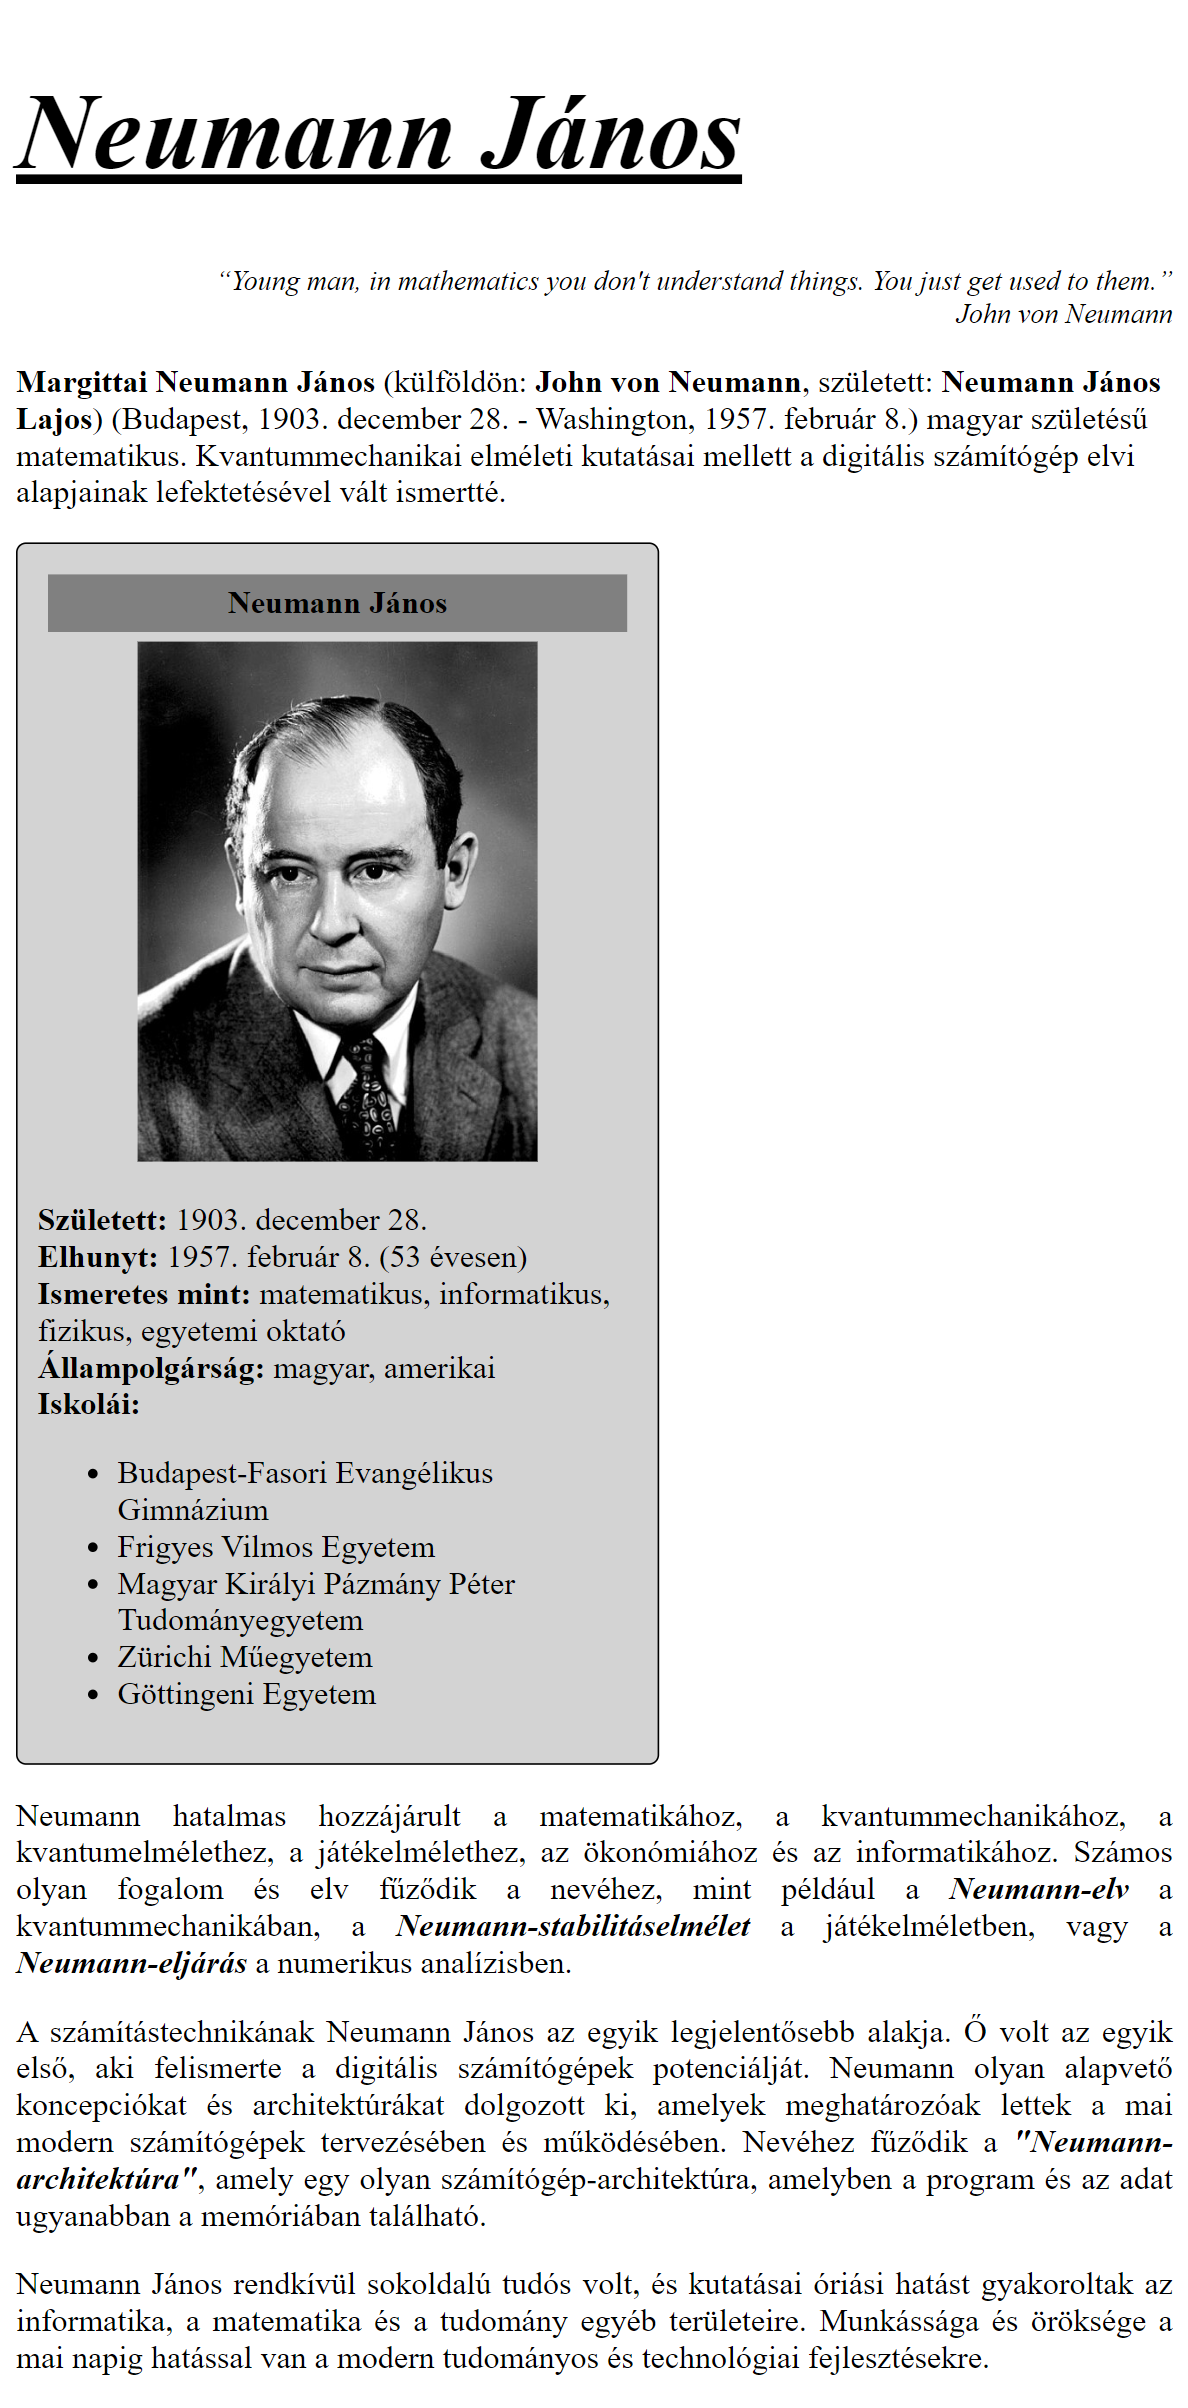
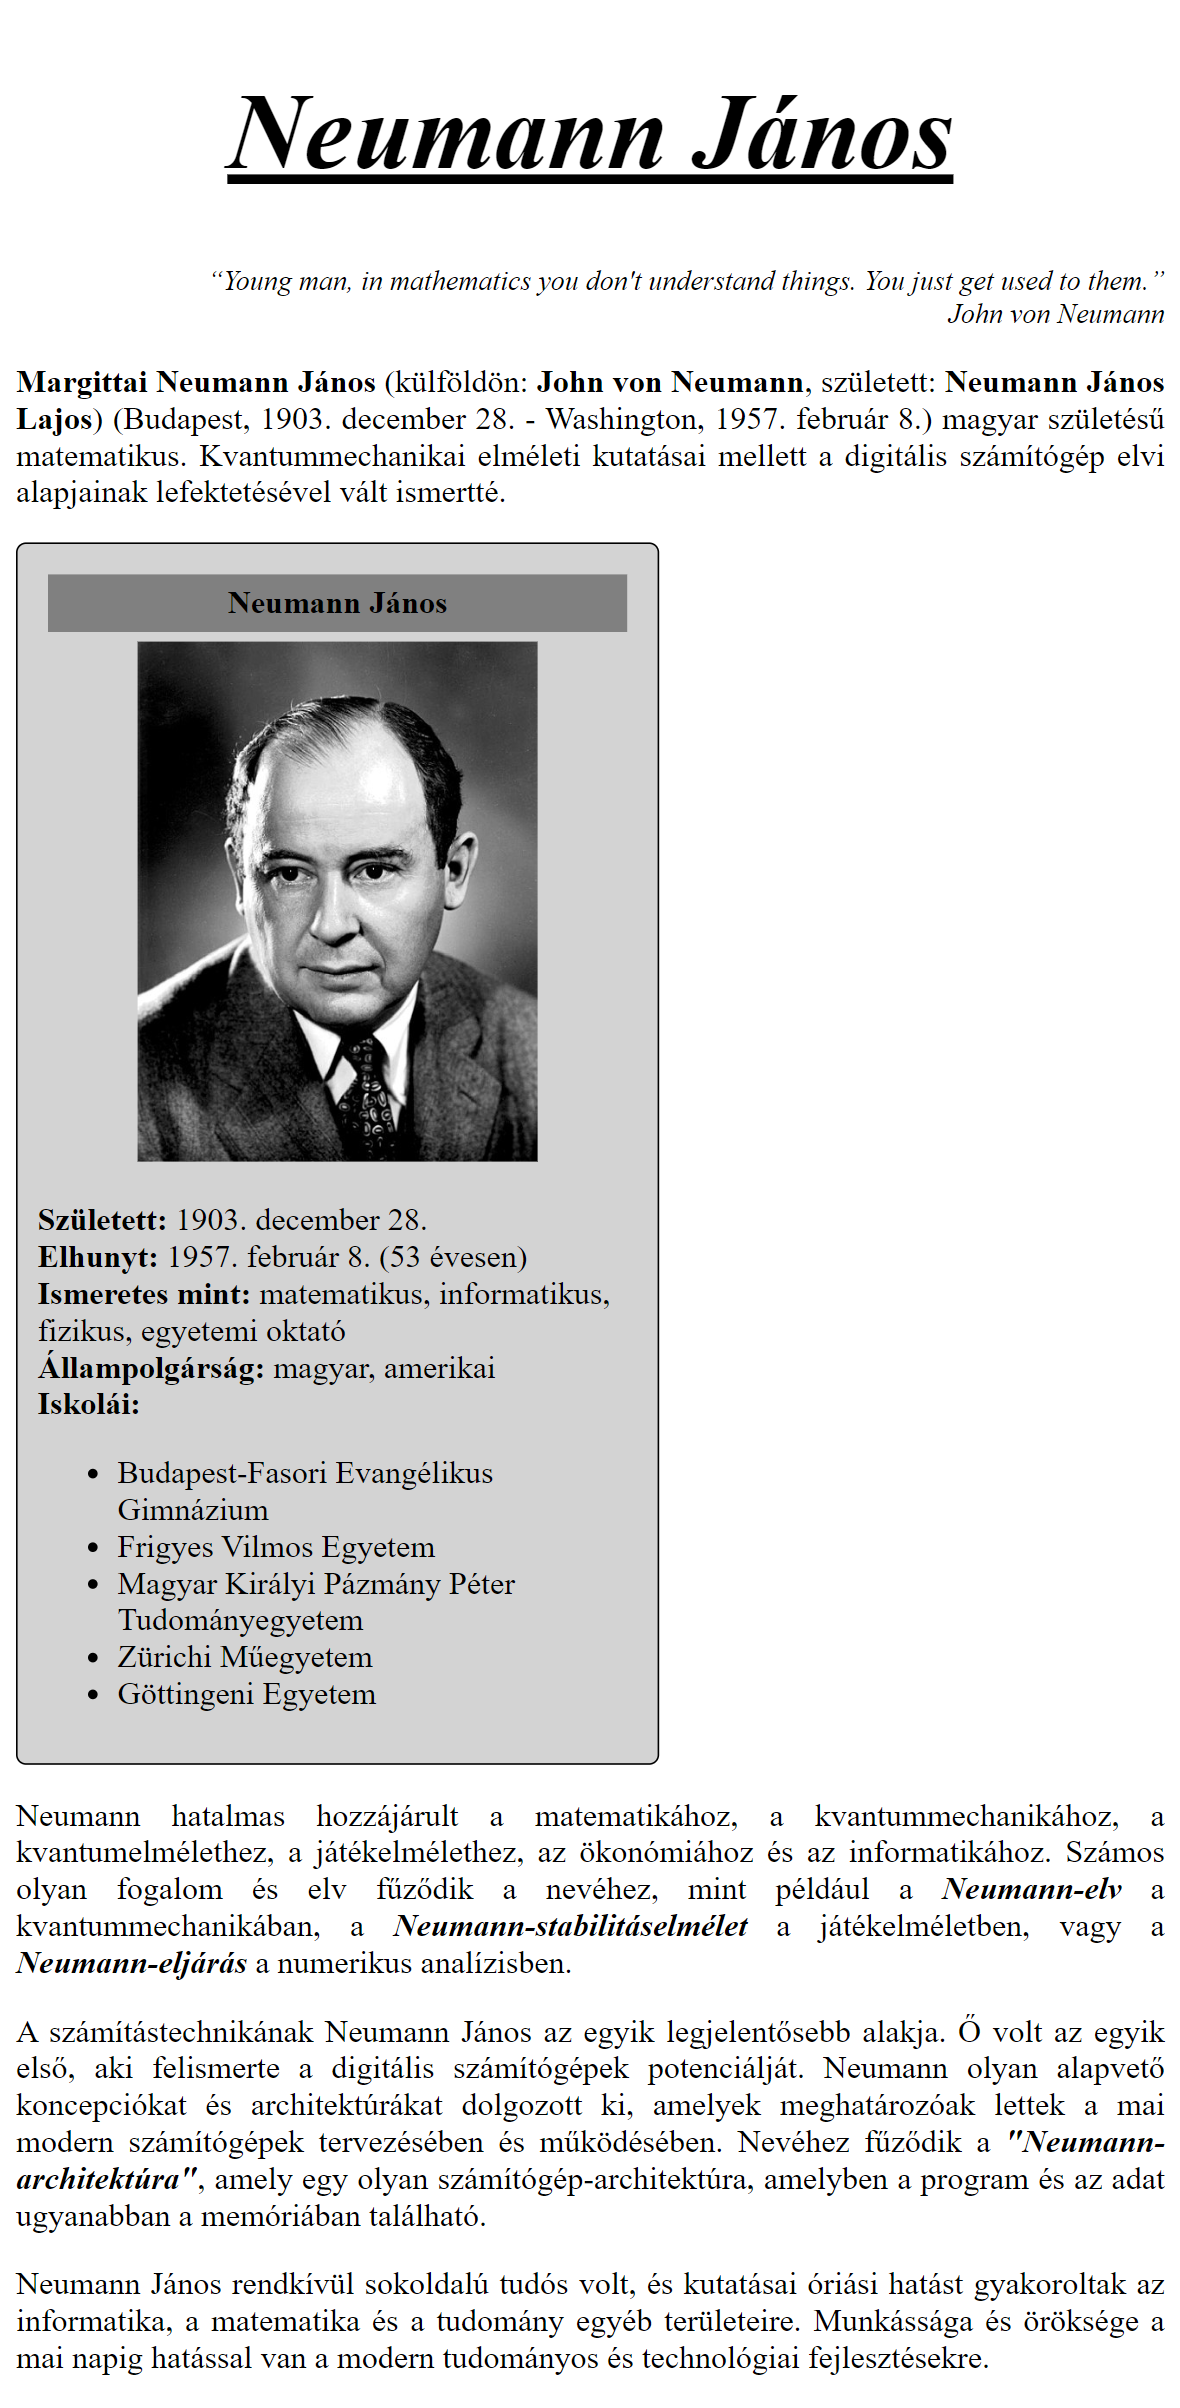
Add content for week 3

Changed region(s): [[0.0, 0.0311, 1.0, 0.9967], [0.0305, 0.2492, 0.5186, 0.7164]]

diff --git a/02_css.md b/02_css.md
@@ -4,6 +4,8 @@
 * Selectorok és deklarációk
 * CSS stílusok megadása inline (`style` attribútum), beágyazott (`<head>` > `<style>`), külső fájlból importált (`<link>`) módon
 * CSS kommentek
+* Kaszkádolás
+* Hierarchia
 * Elem, id, és class selectorok
 * `span` és `div` elemek szerepe
 * Háttér formázása
@@ -94,6 +96,50 @@ p {
 }
 ```
 
+## Kaszkádolás
+Az egymás után megadott szabályok felülírják egymást.
+
+```html
+<head>
+    <style>
+        p {
+            color: red;
+        }
+
+        p {
+            color: green;
+        }
+    </style>
+</head>
+<body>
+    <p>Ennek a bekezdésnek zöld színe lesz.</p>
+</body>
+```
+
+## Hierarchia
+Egyes szabályok képesek egymást felülírni. A hierarchiában magasabb szinten álló szabály fog érvényesülni az elemre.
+![](data/css_specificity.png)
+
+
+```css
+<head>
+    <style>
+        /* elem szintű selector */
+        p {
+            color: red;
+        }
+
+        /* id szintű selector */
+        #green-text {
+            color: green;
+        }
+    </style>
+</head>
+<body>
+    <p id="green-text">Ennek a bekezdésnek zöld színe lesz.</p>
+</body>
+```
+
 ## span és div elemek szerepe
 
 - `span`: Inline elem, mely a szöveg egy részét jelöli ki.
@@ -131,6 +177,7 @@ div {
     margin: 10px;
     padding: 20px;
     border: 1px solid black;
+    border-radius: 5px;
 }
 ```
 
@@ -154,7 +201,9 @@ p {
     font-family: Arial;
     font-size: 16px;
     font-weight: bold;
-    text-decoration: underline;
     font-style: italic;
+    
+    text-decoration: underline;
+    text-align: justify;
 }
 ```
